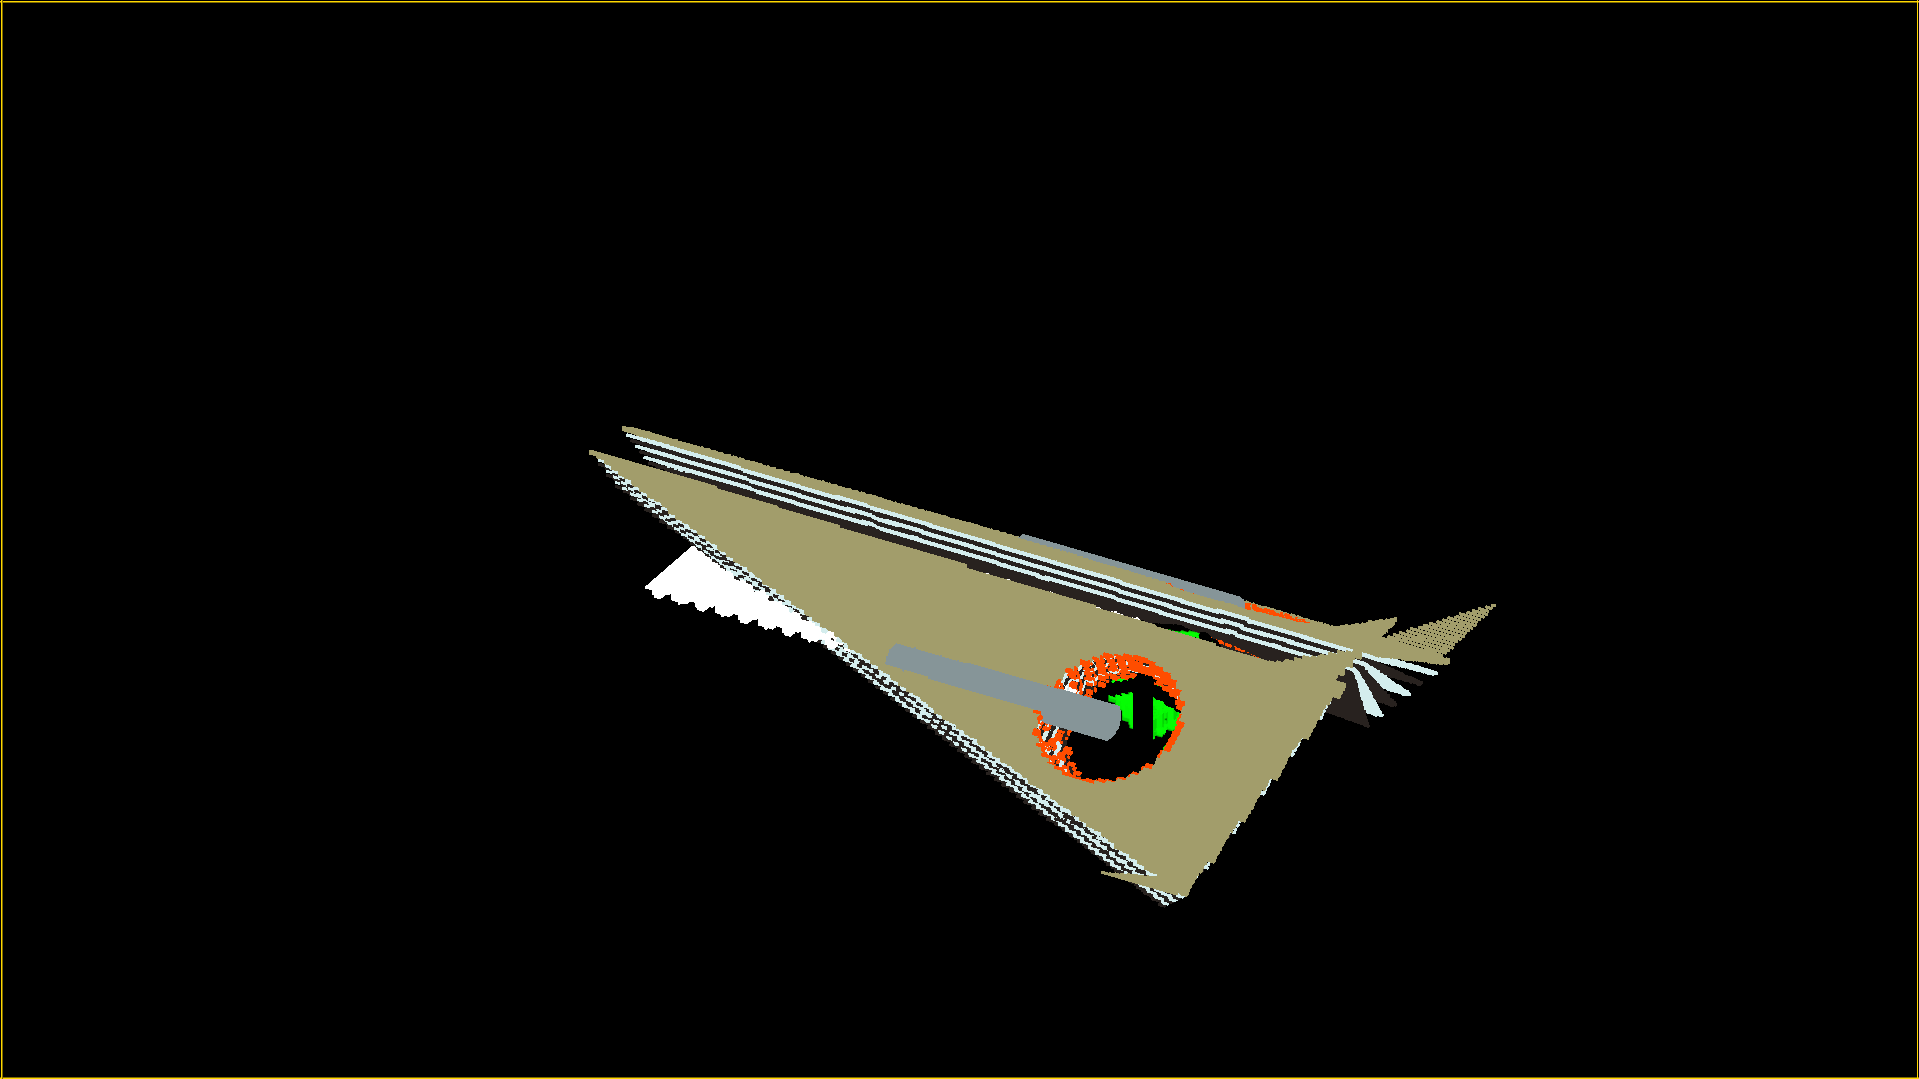
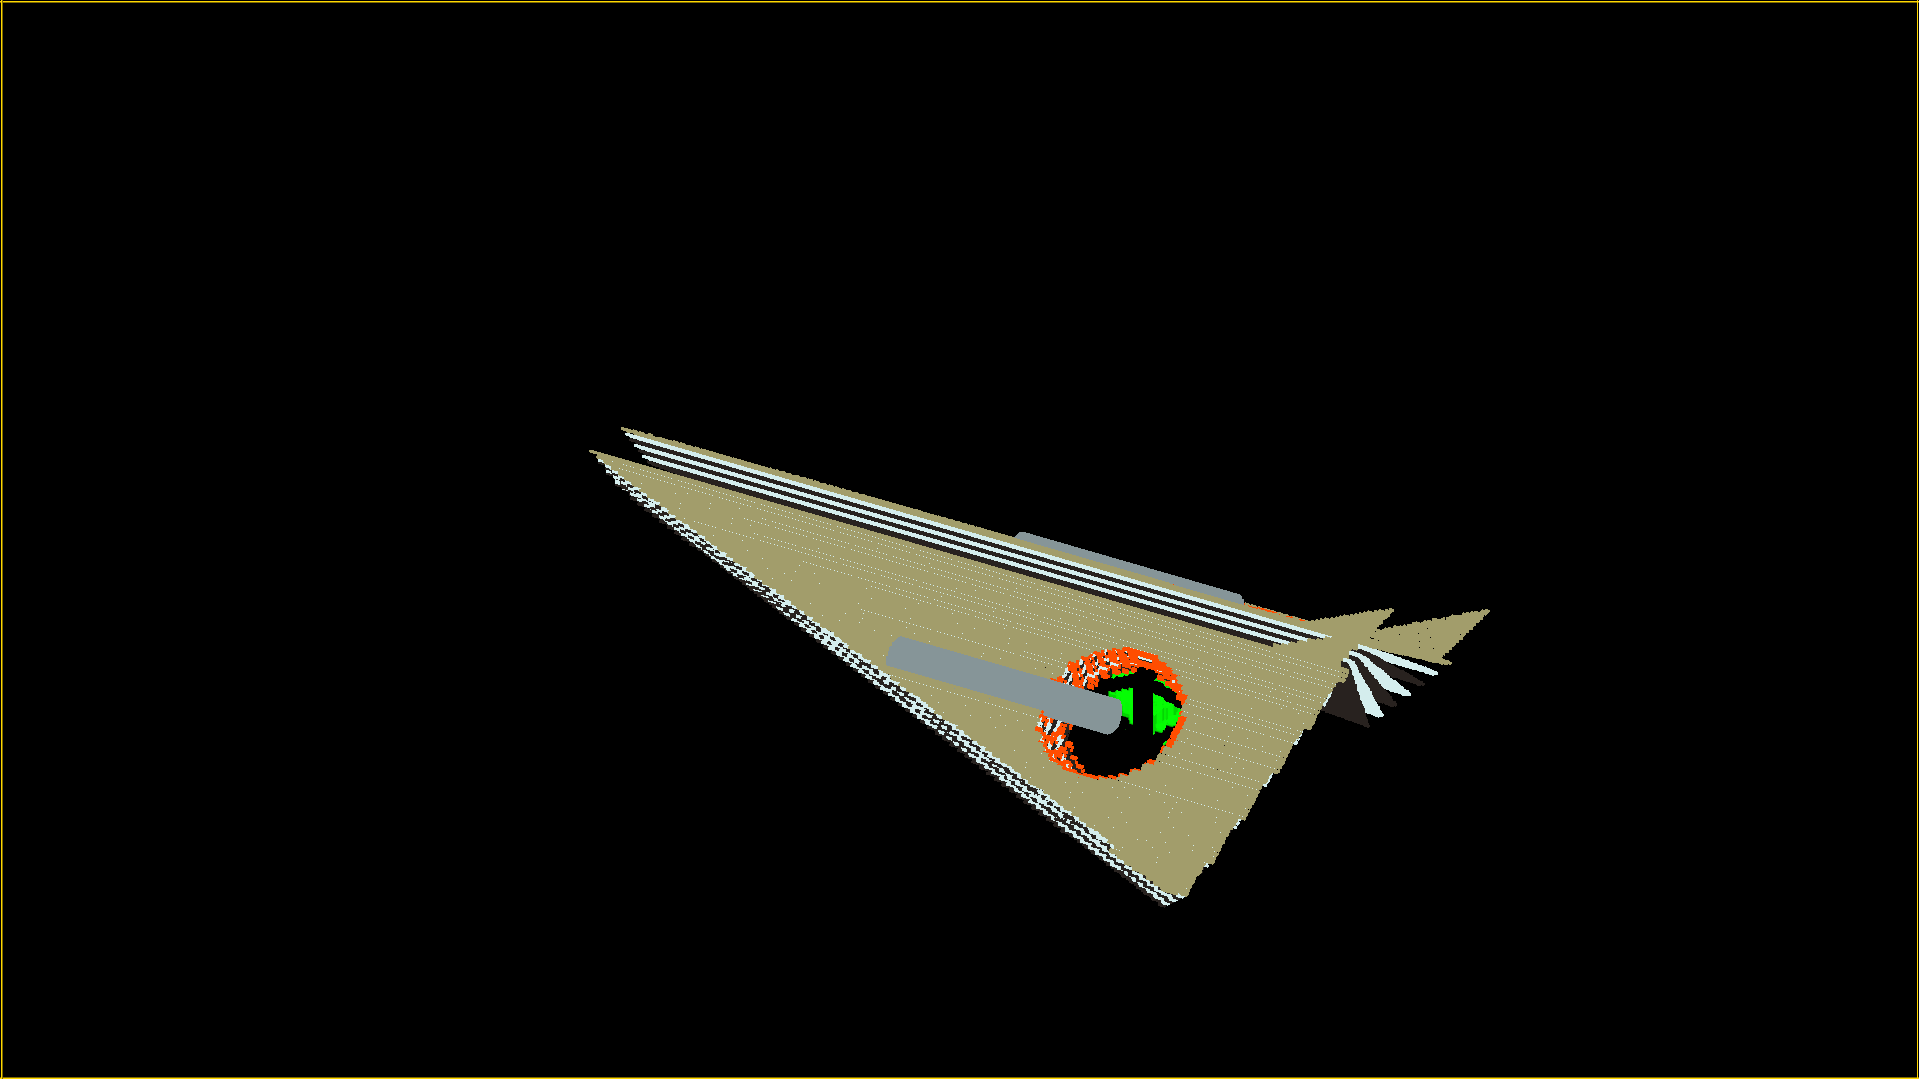
going to rip out all the current code and try to diagnose the issue with the triangle function

diff --git a/code/generate.cc b/code/generate.cc
@@ -50,11 +50,11 @@ int main()
   vec middle_front_point_1 = vec( 90, 126, 116 ); //side one is towards the negative z
   vec middle_front_point_2 = vec( 90, 126, 138 ); //side one is towards the positive z
 
-  vec middle_back_point_1 = vec( 440, 120, 112 );
-  vec middle_back_point_2 = vec( 440, 120, 142 );
+  vec middle_back_point_1 = vec( 440, 126, 116 );
+  vec middle_back_point_2 = vec( 440, 126, 138 );
 
-  vec outer_point_1 = vec( 420, 64, 2 * (38 - 28) );
-  vec outer_point_2 = vec( 420, 64, 2 * (89 + 28) );
+  vec outer_point_1 = vec( 420, 64, 20 );
+  vec outer_point_2 = vec( 420, 64, 234 );
 
   vec ball_1_center = ( middle_front_point_1 + middle_back_point_1 + outer_point_1 ) + vec( 40, -10, -25 );
   vec ball_2_center = ( middle_front_point_2 + middle_back_point_2 + outer_point_2 ) + vec( 40, -10,  25 );
@@ -71,17 +71,23 @@ int main()
 
 
   main_block->draw->draw_triangle( middle_front_point_1, middle_back_point_1, outer_point_1, get_vox(19,1.0,1.0,false));
-  main_block->draw->draw_triangle( middle_front_point_1+inc, middle_back_point_1+inc, outer_point_1+inc, get_vox(19,1.0,1.0,false));
+  // main_block->draw->draw_triangle( middle_front_point_1+inc, middle_back_point_1+inc, outer_point_1+inc, get_vox(19,1.0,1.0,false));
 
   main_block->draw->draw_triangle( middle_front_point_2, middle_back_point_2, outer_point_2, get_vox(19,1.0,1.0,false));
-  main_block->draw->draw_triangle( middle_front_point_2+inc, middle_back_point_2+inc, outer_point_2+inc, get_vox(19,1.0,1.0,false));
+  // main_block->draw->draw_triangle( middle_front_point_2+inc, middle_back_point_2+inc, outer_point_2+inc, get_vox(19,1.0,1.0,false));
 
 
+
+  main_block->draw->draw_line_segment(middle_back_point_1, outer_point_1, get_vox(19,1.0,1.0,false));
+  main_block->draw->draw_line_segment(middle_back_point_2, outer_point_2, get_vox(19,1.0,1.0,false));
+
+
+//fins
   main_block->draw->draw_triangle( middle_back_point_1 + vec(-5,0,0), middle_back_point_1 + vec(-35,0,0), middle_back_point_1 + vec(10,20,0), get_vox(19,1.0,1.0,false));
   main_block->draw->draw_triangle( middle_back_point_2 + vec(-5,0,0), middle_back_point_2 + vec(-35,0,0), middle_back_point_2 + vec(10,20,0), get_vox(19,1.0,1.0,false));
 
-  main_block->draw->draw_triangle( outer_point_1 + vec(-5,0,0), outer_point_1 + vec(-35,0,0), outer_point_1 + vec(10,20,-20), get_vox(19,1.0,1.0,false));
-  main_block->draw->draw_triangle( outer_point_2 + vec(-5,0,0), outer_point_2 + vec(-35,0,0), outer_point_2 + vec(10,20, 20), get_vox(19,1.0,1.0,false));
+  main_block->draw->draw_triangle( outer_point_1 + vec(-5,0,0), outer_point_1 + vec(-35,7,7), outer_point_1 + vec(10,20,-15), get_vox(19,1.0,1.0,false));
+  main_block->draw->draw_triangle( outer_point_2 + vec(-5,0,0), outer_point_2 + vec(-35,7,-7), outer_point_2 + vec(10,20, 15), get_vox(19,1.0,1.0,false));
 
 
 
@@ -230,8 +236,8 @@ int main()
   vec ladder_point_1 = ball_1_center + vec(-30,0,0);
   vec ladder_point_2 = ball_2_center + vec(-30,0,0);
 
-  for(int i = 0; i <= 90; i+= 5)
-    main_block->draw->draw_tube(ladder_point_1 + vec(-i*2,0,0),ladder_point_2 + vec(-i*2,0,0),2,3,get_vox(52,1.0,1.0,false));
+  //for(int i = 0; i <= 90; i+= 5)
+    //main_block->draw->draw_tube(ladder_point_1 + vec(-i*2,0,0),ladder_point_2 + vec(-i*2,0,0),2,3,get_vox(52,1.0,1.0,false));
 
 
 

diff --git a/resources/voraldo/v.cc b/resources/voraldo/v.cc
@@ -868,16 +868,18 @@ void Voraldo_Draw::draw_triangle(vec v0, vec v1, vec v2, Vox set, bool draw, boo
   //c1 and c2 are the ends of the line segment that is going to be drawn
   // these endpoints are ranged along the two sides so as to achieve coverage
 
- 	double length;
+ 	float length;
 
  	if(glm::length(side1) > glm::length(side2))
  	{
- 		length = std::floor(glm::length(side1));
+    // length = std::floor(glm::length(side1));
+ 		length = glm::length(side1);
  	}
  	else
  	{
- 		length = std::floor(glm::length(side2));
- 	}
+ 		// length = std::floor(glm::length(side2));
+    length = glm::length(side2);
+  }
 
  	if(length <= 2)
   {
@@ -888,10 +890,10 @@ void Voraldo_Draw::draw_triangle(vec v0, vec v1, vec v2, Vox set, bool draw, boo
   else
   {
 
- 		side1 = side1/(float)length;
- 		side2 = side2/(float)length;
+ 		side1 = side1/length;
+ 		side2 = side2/length;
 
- 		for(double i = 0; i < length; i+=0.3)
+ 		for(double i = 0; i < length; i+=0.1)
  		{
  			c1[0] = v0[0] + i*side1[0];
  			c1[1] = v0[1] + i*side1[1];

diff --git a/code/view.cc b/code/view.cc
@@ -181,9 +181,9 @@ namespace jb_OpenGL_Radeon{
 }
 
 
-using namespace jb_OpenGL_Laptop;
+// using namespace jb_OpenGL_Laptop;
 
-//using namespace jb_OpenGL_Radeon;
+using namespace jb_OpenGL_Radeon;
 
 
 
@@ -204,11 +204,13 @@ void generate_points()
 
 	PerlinNoise p;
 
-	for( GLfloat x = -1.0; x <= 1.0 ; x += 0.01 )
+	GLfloat increment = 1.0/300.0;
+
+	for( GLfloat x = -1.0; x <= 1.0 ; x += increment )
 	{
-		for ( GLfloat y = -0.5; y <= 0.5; y += 0.01 )
+		for ( GLfloat y = -0.5; y <= 0.5; y += increment )
 		{
-			for( GLfloat z = -0.5; z <= 0.5; z += 0.01 )
+			for( GLfloat z = -0.5; z <= 0.5; z += increment )
 
 			//	if( p.noise( 10*x, 10*y, 10*z ) > 0.5 && p.noise( 10*x, 10*y, 10*z ) < 0.75)
 				{
